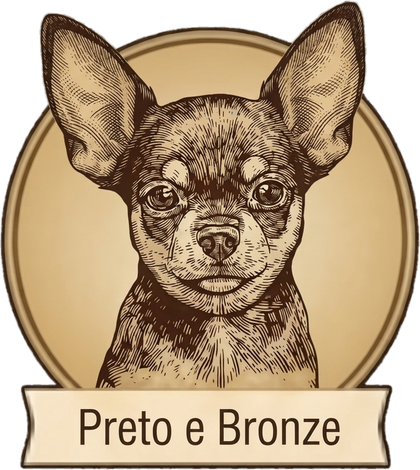
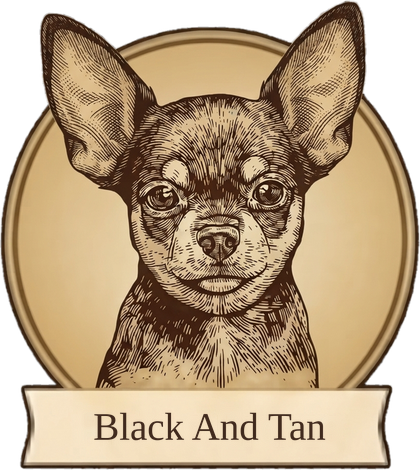
Add files via upload

Changed region(s): [[0.1857, 0.8638, 0.8048, 0.9532]]

diff --git a/index.html b/index.html
@@ -46,17 +46,18 @@ nav a:hover,nav a.active{color:var(--gold)}
 
 /* ---------- Hero ---------- */
 .hero{position:relative;min-height:clamp(440px,46vw,640px);overflow:hidden;background:var(--bg)}
-.hero-img{position:absolute;inset:0 0 0 auto;width:100%;max-width:1440px}
+.hero-img{position:absolute;inset:0 0 0 auto;width:min(48%,660px)}
 .hero-img.ph::after{content:"+ foto principal do hero"}
-.hero-img img{object-position:75% 30%}
-.hero-img::before{content:"";position:absolute;inset:0;z-index:2;background:linear-gradient(90deg,var(--bg) 0%,rgba(18,16,14,.6) 18%,rgba(18,16,14,.3) 40%,transparent 62%),linear-gradient(0deg,var(--bg) 0%,transparent 22%)}
+.hero-img img{object-position:50% 40%}
+/* Transição: a foto se dissolve no fundo escuro (esquerda, topo e base) e recebe leve tom escuro para combinar com o site */
+.hero-img::before{content:"";position:absolute;inset:0;z-index:2;background:linear-gradient(90deg,var(--bg) 0%,rgba(18,16,14,.94) 7%,rgba(18,16,14,.78) 17%,rgba(18,16,14,.5) 30%,rgba(18,16,14,.24) 44%,rgba(18,16,14,.08) 56%,transparent 68%),linear-gradient(180deg,var(--bg) 0%,rgba(18,16,14,.6) 7%,transparent 20%),linear-gradient(0deg,var(--bg) 0%,rgba(18,16,14,.65) 9%,transparent 28%),linear-gradient(270deg,rgba(18,16,14,.45) 0%,transparent 14%),linear-gradient(rgba(18,16,14,.16),rgba(18,16,14,.16))}
 .hero .wrap{position:relative;z-index:3;padding-top:95px;padding-bottom:70px}
 .hero small{display:block;color:var(--gold2);font-family:var(--serif);font-size:1.15rem;margin-bottom:6px}
 .hero h1{font-family:'Playfair Display',Georgia,serif;font-weight:700;font-size:clamp(2.3rem,5vw,3.4rem);line-height:1.08;color:#fff;max-width:520px}
 .hero h1 span{color:var(--gold);display:block}
 .orn{display:flex;align-items:center;gap:8px;color:var(--gold);margin-top:12px;font-size:.8rem}
 .orn::before,.orn::after{content:"";width:22px;height:1px;background:var(--gold)}
-.hero p{max-width:330px;font-size:.88rem;color:#e4dccc;margin:16px 0 20px}
+.hero p{max-width:610px;font-size:.88rem;color:#e4dccc;margin:16px 0 20px;line-height:1.65}
 .btns{display:flex;gap:12px;flex-wrap:wrap}
 .btn{padding:10px 18px;border-radius:7px;font-size:.82rem;font-weight:600;border:1px solid var(--gold);cursor:pointer;display:inline-flex;align-items:center;gap:8px;font-family:inherit}
 .btn.fill{background:linear-gradient(180deg,#d1ae78,#b08a55);color:#1a140d}
@@ -95,7 +96,18 @@ nav a:hover,nav a.active{color:var(--gold)}
 @media(max-width:860px){.cores-wrap{grid-template-columns:1fr}}
 
 /* ---------- Filhotes ---------- */
-.pups{display:grid;grid-template-columns:repeat(4,1fr);gap:14px;padding:0 0 4px}
+.pups-wrap{position:relative}
+.pups{--per:4;--gap:14px;display:flex;gap:var(--gap);overflow-x:auto;scroll-snap-type:x mandatory;scroll-behavior:smooth;-webkit-overflow-scrolling:touch;scrollbar-width:none;padding:2px 2px 4px}
+.pups::-webkit-scrollbar{display:none}
+.pups .pup{flex:0 0 calc((100% - var(--gap)*(var(--per) - 1))/var(--per));scroll-snap-align:start}
+.pups,.gal{cursor:grab}
+.pups.drag,.gal.drag{scroll-snap-type:none;scroll-behavior:auto;cursor:grabbing;user-select:none}
+.pups img,.gal img{-webkit-user-drag:none;user-select:none}
+.pup .ph{cursor:zoom-in}
+.pup .ph img{transition:transform .35s;object-position:50% 30%}
+.pup .ph:hover img{transform:scale(1.04)}
+.pup .ph:focus-visible{outline:2px solid var(--gold);outline-offset:2px}
+.pup .ph .count{position:absolute;right:8px;bottom:8px;z-index:3;background:rgba(18,16,14,.82);color:var(--gold);border:1px solid var(--gold-line);border-radius:20px;padding:3px 10px;font-size:.68rem;font-weight:600;letter-spacing:.04em}
 .pup{background:var(--card);border:1px solid var(--gold-line);border-radius:12px;padding:8px 8px 12px}
 .pup .ph{aspect-ratio:1/1.05;border-radius:8px;background:linear-gradient(160deg,#f1e3c3,#d9c391)}
 .pup .ph::after{color:#8a7448}
@@ -133,9 +145,38 @@ nav a:hover,nav a.active{color:var(--gold)}
 .gal-dots button{width:8px;height:8px;border-radius:50%;border:0;padding:0;background:#4a3f2e;cursor:pointer;transition:.2s}
 .gal-dots button.on{background:var(--gold);width:22px;border-radius:6px}
 
+
+/* ---------- Pop-up de fotos do filhote ---------- */
+.pm{position:fixed;inset:0;z-index:210;background:rgba(10,8,6,.94);display:none;align-items:center;justify-content:center;padding:16px}
+.pm.on{display:flex}
+.pm-box{position:relative;width:min(940px,100%);max-height:100%;overflow:auto;display:grid;grid-template-columns:minmax(0,1.3fr) minmax(0,1fr);gap:22px;background:var(--card);border:1px solid var(--gold-line);border-radius:16px;padding:16px;box-shadow:0 24px 70px rgba(0,0,0,.6)}
+.pm-stage{position:relative;display:grid;place-items:center;background:#0e0b09;border-radius:10px;height:min(74vh,660px);min-height:280px}
+.pm-stage img{position:absolute;inset:0;width:100%;height:100%;object-fit:contain;display:block}
+.pm-stage button,.pm-x{background:rgba(18,16,14,.85);border:1px solid var(--gold);color:var(--gold);border-radius:50%;cursor:pointer;line-height:1;font-size:1.5rem;width:40px;height:40px}
+.pm-stage button{position:absolute;top:50%;transform:translateY(-50%)}
+.pm-stage button:hover,.pm-x:hover{background:var(--gold);color:#1a140d}
+.pm-stage .p{left:8px}.pm-stage .n{right:8px}
+.pm-count{position:absolute;left:10px;bottom:10px;background:rgba(18,16,14,.82);color:var(--gold);border:1px solid var(--gold-line);border-radius:20px;padding:3px 11px;font-size:.72rem;font-weight:600}
+.pm-x{position:absolute;top:10px;right:10px;z-index:5}
+.pm-info{display:flex;flex-direction:column;gap:14px;min-width:0;padding-top:30px}
+.pm-info h3{font-family:var(--serif);font-weight:400;font-size:1.7rem;line-height:1.1}
+.pm-info .stat{margin:0;font-size:.9rem}
+.pm-thumbs{display:grid;grid-template-columns:repeat(4,1fr);gap:8px}
+.pm-thumbs button{padding:0;border:2px solid transparent;border-radius:8px;overflow:hidden;background:#0e0b09;cursor:pointer;aspect-ratio:1;opacity:.65;transition:.2s}
+.pm-thumbs button.on{border-color:var(--gold);opacity:1}
+.pm-thumbs button:hover{opacity:1}
+.pm-thumbs img{width:100%;height:100%;object-fit:cover;display:block}
+.pm-info .btn{justify-content:center;margin-top:auto}
+@media(max-width:760px){
+  .pm{padding:10px;align-items:flex-start}
+  .pm-box{grid-template-columns:1fr;gap:14px;max-height:100%}
+  .pm-stage{height:min(62vh,520px)}
+  .pm-info{padding-top:0}
+}
+
 /* ---------- Footer premium ---------- */
 footer{background:#0e0b09;border-top:1px solid rgba(196,160,106,.22);padding:48px 0 0}
-.foot-card{position:relative;display:flex;align-items:center;aspect-ratio:21/8;min-height:300px;border:1px solid var(--gold-line);border-radius:20px;overflow:hidden;background:#100d0b;box-shadow:0 24px 60px rgba(0,0,0,.55),inset 0 0 0 1px rgba(255,255,255,.02)}
+.foot-card{position:relative;display:flex;align-items:center;aspect-ratio:21/8;min-height:410px;border:1px solid var(--gold-line);border-radius:20px;overflow:hidden;background:#100d0b;box-shadow:0 24px 60px rgba(0,0,0,.55),inset 0 0 0 1px rgba(255,255,255,.02)}
 .foot-card .ph{position:absolute;inset:0}
 .foot-card .ph img{object-position:82% 16%}
 .foot-card .ph::before{content:"";position:absolute;inset:0;z-index:2;background:linear-gradient(90deg,#100d0b 0%,rgba(16,13,11,.92) 28%,rgba(16,13,11,.35) 52%,transparent 70%),linear-gradient(0deg,rgba(16,13,11,.55) 0%,transparent 35%)}
@@ -146,6 +187,9 @@ footer{background:#0e0b09;border-top:1px solid rgba(196,160,106,.22);padding:48p
 .foot-brand h3 span{display:block;color:var(--gold)}
 .foot-brand .orn{margin-top:14px}
 .foot-brand p{margin-top:12px;font-size:.84rem;color:#cfc6b4;max-width:300px}
+.affil{display:flex;align-items:center;gap:14px;margin-top:18px}
+.affil img{width:72px;height:72px;object-fit:contain;display:block}
+.affil+p{margin-top:14px}
 .foot-cols{display:grid;grid-template-columns:1.2fr 1fr 1.2fr;gap:44px;padding:52px 6px 44px}
 .foot-cols h4{font-family:var(--sans);font-weight:600;font-size:.7rem;letter-spacing:.2em;text-transform:uppercase;color:var(--gold);padding-bottom:14px;margin-bottom:18px;border-bottom:1px solid rgba(196,160,106,.2)}
 .foot-cols ul{list-style:none;display:grid;gap:13px;font-size:.88rem;color:#cfc6b4}
@@ -201,7 +245,8 @@ footer{background:#0e0b09;border-top:1px solid rgba(196,160,106,.22);padding:48p
 
 /* ---------- Responsivo ---------- */
 @media(max-width:900px){
-  .feats,.pups{grid-template-columns:repeat(2,1fr)}
+  .feats{grid-template-columns:repeat(2,1fr)}
+  .pups{--per:2}
   .gal{--per:3}
 }
 @media(max-width:760px){
@@ -211,12 +256,12 @@ footer{background:#0e0b09;border-top:1px solid rgba(196,160,106,.22);padding:48p
 }
 @media(max-width:760px){
   .hero{min-height:0;background:var(--bg)}
-  .hero-img{position:relative;inset:auto;height:clamp(260px,70vw,420px)}
+  .hero-img{position:relative;inset:auto;width:100%;height:clamp(300px,84vw,460px)}
   .hero-img::before{background:linear-gradient(0deg,var(--bg) 0%,rgba(18,16,14,.6) 18%,transparent 45%)}
-  .hero-img img{object-position:80% 20%}
+  .hero-img img{object-position:50% 38%}
   .hero .wrap{padding-top:6px;padding-bottom:40px}
 }
-@media(max-width:480px){.color{width:calc(50% - 10px);max-width:170px}.gal{--per:1}.gal-btn.prev{left:6px}.gal-btn.next{right:6px}.feats,.pups{grid-template-columns:1fr}.colors{gap:20px}}
+@media(max-width:480px){.color{width:calc(50% - 10px);max-width:170px}.gal{--per:1}.gal-btn.prev{left:6px}.gal-btn.next{right:6px}.feats{grid-template-columns:1fr}.pups{--per:1}.colors{gap:20px}}
 </style>
 </head>
 <body>
@@ -256,13 +301,13 @@ footer{background:#0e0b09;border-top:1px solid rgba(196,160,106,.22);padding:48p
 
 <!-- ================= HERO ================= -->
 <section class="hero" id="inicio">
-  <!-- FOTO DO HERO: img/hero.jpg (recomendado 1400x780, lado esquerdo escuro para o texto) -->
-  <div class="hero-img ph"><img src="img/hero.jpg" data-fb="hero" alt="Mulher sorrindo com um filhote de chihuahua no colo"></div>
+  <!-- FOTO DO HERO: img/hero-cachorro.jpg (a foto se dissolve no fundo escuro pelo degradê em .hero-img::before) -->
+  <div class="hero-img ph"><img src="img/hero-cachorro.jpg" alt="Filhote de Chihuahua chocolate deitado em tapete vermelho com corações ao fundo"></div>
   <div class="wrap">
     <small>Canil Mirajara</small>
     <h1>Criação Especializada <span>de Chihuahuas</span></h1>
     <div class="orn" aria-hidden="true">♡</div>
-    <p>Compromisso absoluto com a saúde, a ética e o desenvolvimento ideal de cada filhote.</p>
+    <p>Crio a raça Chihuahua há mais de 20 anos, com muito amor, carinho e dedicação.<br>Compromisso absoluto com a saúde, a ética e o desenvolvimento ideal de cada filhote.</p>
     <div class="btns">
       <a href="#filhotes" class="btn fill">Ver Filhotes Disponíveis</a>
       <a href="#sobre" class="btn line">Conheça o Canil</a>
@@ -294,7 +339,7 @@ footer{background:#0e0b09;border-top:1px solid rgba(196,160,106,.22);padding:48p
         <li>Chocotam</li>
         <li>Creme</li>
         <li>Branco</li>
-        <li>Black Tam</li>
+        <li>Black And Tan</li>
         <li>Black</li>
         <li>Chocolate e Branco</li>
         <li>Preto e Branco</li>
@@ -302,7 +347,7 @@ footer{background:#0e0b09;border-top:1px solid rgba(196,160,106,.22);padding:48p
     </div>
     <div class="colors">
     <!-- Selos PNG na pasta img/. Para trocar, substitua o arquivo ou mude o src. -->
-    <div class="color"><img src="img/preto-bronze.png" data-fb="preto-bronze" alt="Chihuahua Preto e Bronze"></div>
+    <div class="color"><img src="img/preto-bronze.png" data-fb="preto-bronze" alt="Chihuahua Black And Tan"></div>
     <div class="color"><img src="img/chocolate.png" data-fb="chocolate" alt="Chihuahua Chocolate"></div>
     <div class="color"><img src="img/creme.png" data-fb="creme" alt="Chihuahua Creme"></div>
     <div class="color"><img src="img/lilac.png" data-fb="lilac" alt="Chihuahua Lilac"></div>
@@ -313,44 +358,54 @@ footer{background:#0e0b09;border-top:1px solid rgba(196,160,106,.22);padding:48p
 <!-- ================= FILHOTES ================= -->
 <section id="filhotes" class="wrap">
   <h2 class="title">Filhotes Disponíveis</h2>
-  <div class="pups">
-
-    <!-- FILHOTE 1 -->
-    <article class="pup">
-      <div class="ph"><img src="" alt="Filhote Chocolate"></div>
+  <!-- Carrossel: para adicionar um filhote, copie um <article class="pup"> inteiro e cole ao final.
+       Em data-photos coloque as fotos separadas por | (a primeira é a capa). Clique na foto abre o pop-up com todas. -->
+  <div class="pups-wrap">
+  <button class="gal-btn prev" aria-label="Filhotes anteriores">&#8249;</button>
+  <button class="gal-btn next" aria-label="Próximos filhotes">&#8250;</button>
+  <div class="pups" id="pups">
+    <article class="pup" data-photos="img/galeria/g17.jpg|img/galeria/g09.jpg|img/galeria/g26.jpg|img/galeria/g22.jpg">
+      <div class="ph" role="button" tabindex="0" aria-label="Ver fotos do filhote Chocolate"><img src="img/galeria/g17.jpg" alt="Filhote Chocolate" loading="lazy"></div>
       <h3>Chocolate</h3>
       <div class="stat"><span class="ok">Disponível</span><span>Macho</span></div>
       <div class="meta"><svg class="i"><use href="#pin"/></svg>Vacinado, Vermifugado</div>
       <a class="btn dark" href="https://wa.me/5521993738150?text=Quero%20reservar%20o%20filhote%20Chocolate" target="_blank" rel="noopener"><svg class="i"><use href="#bolt"/></svg>Reservar</a>
     </article>
 
-    <!-- FILHOTE 2 -->
-    <article class="pup">
-      <div class="ph"><img src="" alt="Filhote Merle"></div>
-      <h3>Merle</h3>
+    <article class="pup" data-photos="img/galeria/g23.jpg|img/galeria/g04.jpg|img/galeria/g18.jpg|img/galeria/g19.jpg">
+      <div class="ph" role="button" tabindex="0" aria-label="Ver fotos do filhote Lilac"><img src="img/galeria/g23.jpg" alt="Filhote Lilac" loading="lazy"></div>
+      <h3>Lilac</h3>
       <div class="stat"><span class="ok">Disponível</span><span>Fêmea</span></div>
       <div class="meta"><svg class="i"><use href="#pin"/></svg>Vacinada, Vermifugada</div>
-      <a class="btn dark" href="https://wa.me/5521993738150?text=Quero%20reservar%20o%20filhote%20Merle" target="_blank" rel="noopener"><svg class="i"><use href="#bolt"/></svg>Reservar</a>
+      <a class="btn dark" href="https://wa.me/5521993738150?text=Quero%20reservar%20o%20filhote%20Lilac" target="_blank" rel="noopener"><svg class="i"><use href="#bolt"/></svg>Reservar</a>
     </article>
 
-    <!-- FILHOTE 3 (reservado / fila de espera) -->
-    <article class="pup">
-      <div class="ph"><img src="" alt="Filhote Creme"></div>
+    <article class="pup" data-photos="img/galeria/g24.jpg">
+      <div class="ph" role="button" tabindex="0" aria-label="Ver fotos do filhote Creme"><img src="img/galeria/g24.jpg" alt="Filhote Creme" loading="lazy"></div>
       <h3>Creme</h3>
-      <div class="stat"><span class="wait">Sob Reserva</span><span>Macho</span></div>
-      <a class="btn out" href="https://wa.me/5521993738150?text=Quero%20entrar%20na%20fila%20de%20espera%20do%20filhote%20Creme" target="_blank" rel="noopener">Fila da Espera</a>
+      <div class="stat"><span class="ok">Disponível</span><span>Macho</span></div>
+      <div class="meta"><svg class="i"><use href="#pin"/></svg>Vacinado, Vermifugado</div>
+      <a class="btn dark" href="https://wa.me/5521993738150?text=Quero%20reservar%20o%20filhote%20Creme" target="_blank" rel="noopener"><svg class="i"><use href="#bolt"/></svg>Reservar</a>
     </article>
 
-    <!-- FILHOTE 4 -->
-    <article class="pup">
-      <div class="ph"><img src="" alt="Filhote Preto e Bronze"></div>
-      <h3>Preto e Bronze</h3>
+    <article class="pup" data-photos="img/galeria/g25.jpg|img/galeria/g07.jpg|img/galeria/g13.jpg|img/galeria/g15.jpg">
+      <div class="ph" role="button" tabindex="0" aria-label="Ver fotos do filhote Black And Tan"><img src="img/galeria/g25.jpg" alt="Filhote Black And Tan" loading="lazy"></div>
+      <h3>Black And Tan</h3>
       <div class="stat"><span class="ok">Disponível</span><span>Fêmea</span></div>
       <div class="meta"><svg class="i"><use href="#pin"/></svg>Vacinada, Vermifugada</div>
-      <a class="btn dark" href="https://wa.me/5521993738150?text=Quero%20reservar%20o%20filhote%20Preto%20e%20Bronze" target="_blank" rel="noopener"><svg class="i"><use href="#bolt"/></svg>Reservar</a>
+      <a class="btn dark" href="https://wa.me/5521993738150?text=Quero%20reservar%20o%20filhote%20Black%20And%20Tan" target="_blank" rel="noopener"><svg class="i"><use href="#bolt"/></svg>Reservar</a>
     </article>
 
+    <article class="pup" data-photos="img/galeria/g20.jpg|img/galeria/g21.jpg|img/galeria/g05.jpg">
+      <div class="ph" role="button" tabindex="0" aria-label="Ver fotos do filhote Chocolate e Branco"><img src="img/galeria/g20.jpg" alt="Filhote Chocolate e Branco" loading="lazy"></div>
+      <h3>Chocolate e Branco</h3>
+      <div class="stat"><span class="ok">Disponível</span><span>Fêmea</span></div>
+      <div class="meta"><svg class="i"><use href="#pin"/></svg>Vacinada, Vermifugada</div>
+      <a class="btn dark" href="https://wa.me/5521993738150?text=Quero%20reservar%20o%20filhote%20Chocolate%20e%20Branco" target="_blank" rel="noopener"><svg class="i"><use href="#bolt"/></svg>Reservar</a>
+    </article>
   </div>
+  </div>
+  <div class="gal-dots" id="pupDots"></div>
 </section>
 
 <!-- ================= GALERIA ================= -->
@@ -405,6 +460,11 @@ footer{background:#0e0b09;border-top:1px solid rgba(196,160,106,.22);padding:48p
         <div class="seal"><!-- SELO/LOGO --><img src="" alt="Selo Canil Mirajara"><span class="seal-txt">Canil<br>Mirajara</span></div>
         <h3>Criação Especializada <span>de Chihuahuas</span></h3>
         <div class="orn" aria-hidden="true">♡</div>
+        <div class="affil">
+          <img src="img/cbkc.png" alt="CBKC - Confederação Brasileira de Cinofilia" loading="lazy">
+          <img src="img/alkc.png" alt="ALKC - América Latina Kennel Clube" loading="lazy">
+        </div>
+        <p>Compromisso com o padrão da raça — Canil filiado à CBKC e ALKC.</p>
       </div>
     </div>
 
@@ -431,7 +491,6 @@ footer{background:#0e0b09;border-top:1px solid rgba(196,160,106,.22);padding:48p
         <h4>Canil Mirajara</h4>
         <ul>
           <li><svg class="i"><use href="#mail"/></svg><span>contato@kennelmirajara.com</span></li>
-          <li><svg class="i"><use href="#globe"/></svg><span>www.kennelmirajara.com</span></li>
         </ul>
       </div>
     </div>
@@ -446,6 +505,24 @@ footer{background:#0e0b09;border-top:1px solid rgba(196,160,106,.22);padding:48p
     </div>
   </div>
 </footer>
+
+<div class="pm" id="pm" role="dialog" aria-modal="true" aria-label="Fotos do filhote" aria-hidden="true">
+  <div class="pm-box">
+    <button class="pm-x" aria-label="Fechar">&times;</button>
+    <div class="pm-stage">
+      <button class="p" aria-label="Foto anterior">&#8249;</button>
+      <img alt="">
+      <button class="n" aria-label="Próxima foto">&#8250;</button>
+      <span class="pm-count"></span>
+    </div>
+    <div class="pm-info">
+      <h3></h3>
+      <div class="stat"><span class="pm-status"></span><span class="pm-sex"></span></div>
+      <div class="pm-thumbs"></div>
+      <a class="btn fill" target="_blank" rel="noopener"></a>
+    </div>
+  </div>
+</div>
 
 <div class="lb" id="lb" aria-hidden="true"><button class="x" aria-label="Fechar">&times;</button><button class="p" aria-label="Anterior">&#8249;</button><img alt=""><button class="n" aria-label="Próxima">&#8250;</button></div>
 
@@ -500,6 +577,94 @@ document.querySelectorAll('#menu a').forEach(function(a){
   lb.querySelector('.x').onclick=hide;lb.querySelector('.p').onclick=function(){show(i-1)};lb.querySelector('.n').onclick=function(){show(i+1)};
   lb.addEventListener('click',function(e){if(e.target===lb)hide()});
   document.addEventListener('keydown',function(e){if(!lb.classList.contains('on'))return;if(e.key==='Escape')hide();if(e.key==='ArrowLeft')show(i-1);if(e.key==='ArrowRight')show(i+1)});
+})();
+</script>
+<script>
+/* Filhotes: carrossel + pop-up com todas as fotos de cada filhote */
+(function(){
+  var g=document.getElementById('pups'),dots=document.getElementById('pupDots');
+  if(!g)return;
+  var wrap=g.parentNode,prev=wrap.querySelector('.prev'),next=wrap.querySelector('.next');
+  function per(){return parseInt(getComputedStyle(g).getPropertyValue('--per'))||1}
+  function pages(){return Math.max(1,Math.ceil(g.children.length/per()))}
+  function step(){return g.clientWidth+parseFloat(getComputedStyle(g).gap||0)}
+  function build(){
+    dots.innerHTML='';
+    for(var i=0;i<pages();i++){(function(i){
+      var b=document.createElement('button');b.setAttribute('aria-label','Página '+(i+1));
+      b.onclick=function(){g.scrollTo({left:i*step()})};dots.appendChild(b)})(i)}
+    update();
+  }
+  function update(){
+    var max=g.scrollWidth-g.clientWidth,need=max>4;
+    prev.hidden=next.hidden=!need;dots.style.display=need?'flex':'none';
+    var idx=Math.min(pages()-1,Math.round(g.scrollLeft/step()));
+    [].forEach.call(dots.children,function(d,i){d.classList.toggle('on',i===idx)});
+  }
+  prev.onclick=function(){g.scrollLeft<=2?g.scrollTo({left:g.scrollWidth}):g.scrollBy({left:-step()})};
+  next.onclick=function(){g.scrollLeft>=g.scrollWidth-g.clientWidth-2?g.scrollTo({left:0}):g.scrollBy({left:step()})};
+  g.addEventListener('scroll',function(){window.requestAnimationFrame(update)});
+  window.addEventListener('resize',build);
+  build();
+
+  /* ---- pop-up ---- */
+  var pm=document.getElementById('pm'),stage=pm.querySelector('.pm-stage img'),count=pm.querySelector('.pm-count'),
+      thumbs=pm.querySelector('.pm-thumbs'),cta=pm.querySelector('.pm-info .btn'),photos=[],cur=0;
+  function photosOf(card){return (card.getAttribute('data-photos')||'').split('|').filter(Boolean)}
+  function show(i){
+    cur=(i+photos.length)%photos.length;stage.src=photos[cur];
+    count.textContent=(cur+1)+' / '+photos.length;
+    [].forEach.call(thumbs.children,function(t,k){t.classList.toggle('on',k===cur)});
+    var multi=photos.length>1;pm.querySelector('.p').hidden=pm.querySelector('.n').hidden=!multi;
+  }
+  function open(card,i){
+    photos=photosOf(card);if(!photos.length)return;
+    var name=card.querySelector('h3').textContent;
+    stage.alt='Filhote '+name;
+    pm.querySelector('h3').textContent=name;
+    var st=card.querySelectorAll('.stat span');
+    var s1=pm.querySelector('.pm-status'),s2=pm.querySelector('.pm-sex');
+    s1.textContent=st[0]?st[0].textContent:'';s1.className='pm-status '+(st[0]?st[0].className:'');
+    s2.textContent=st[1]?st[1].textContent:'';
+    thumbs.innerHTML='';thumbs.style.display=photos.length>1?'grid':'none';
+    photos.forEach(function(p,k){var b=document.createElement('button');b.type='button';b.setAttribute('aria-label','Foto '+(k+1));
+      var im=document.createElement('img');im.src=p;im.alt='';b.appendChild(im);b.onclick=function(){show(k)};thumbs.appendChild(b)});
+    var a=card.querySelector('.btn');
+    if(a){cta.href=a.href;cta.textContent=a.textContent.trim()==='Reservar'?'Reservar este filhote':a.textContent.trim();cta.hidden=false}else{cta.hidden=true}
+    pm.classList.add('on');pm.setAttribute('aria-hidden','false');document.body.style.overflow='hidden';
+    show(i||0);pm.querySelector('.pm-x').focus();
+  }
+  function close(){pm.classList.remove('on');pm.setAttribute('aria-hidden','true');document.body.style.overflow=''}
+  function addCounts(){
+    [].forEach.call(g.querySelectorAll('.pup'),function(card){
+      var ph=card.querySelector('.ph'),n=photosOf(card).length;
+      if(ph&&n>1&&!ph.querySelector('.count')){var c=document.createElement('span');c.className='count';c.textContent=n+' fotos';ph.appendChild(c)}
+    });
+  }
+  addCounts();
+  g.addEventListener('click',function(e){var ph=e.target.closest('.ph');if(ph)open(ph.closest('.pup'),0)});
+  g.addEventListener('keydown',function(e){if((e.key==='Enter'||e.key===' ')&&e.target.classList.contains('ph')){e.preventDefault();open(e.target.closest('.pup'),0)}});
+  pm.querySelector('.pm-x').onclick=close;
+  pm.querySelector('.p').onclick=function(){show(cur-1)};pm.querySelector('.n').onclick=function(){show(cur+1)};
+  pm.addEventListener('click',function(e){if(e.target===pm)close()});
+  document.addEventListener('keydown',function(e){if(!pm.classList.contains('on'))return;
+    if(e.key==='Escape')close();if(e.key==='ArrowLeft')show(cur-1);if(e.key==='ArrowRight')show(cur+1)});
+})();
+</script>
+<script>
+/* Arrastar com o mouse nos carrosséis (no celular o dedo já rola) */
+(function(){
+  function drag(el){
+    if(!el)return;var down=false,moved=false,sx=0,sl=0;
+    el.addEventListener('pointerdown',function(e){if(e.pointerType!=='mouse'||e.button!==0)return;down=true;moved=false;sx=e.clientX;sl=el.scrollLeft});
+    window.addEventListener('pointermove',function(e){if(!down)return;var dx=e.clientX-sx;
+      if(!moved&&Math.abs(dx)>5){moved=true;el.classList.add('drag')}
+      if(moved)el.scrollLeft=sl-dx});
+    window.addEventListener('pointerup',function(){if(!down)return;down=false;el.classList.remove('drag')});
+    el.addEventListener('click',function(e){if(moved){e.preventDefault();e.stopPropagation();moved=false}},true);
+    el.addEventListener('dragstart',function(e){e.preventDefault()});
+  }
+  drag(document.getElementById('pups'));drag(document.getElementById('gal'));
 })();
 </script>
 <script>
